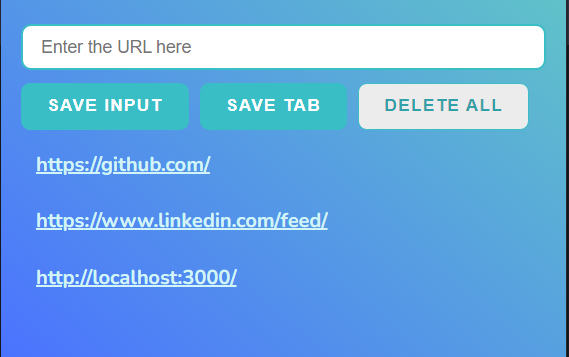
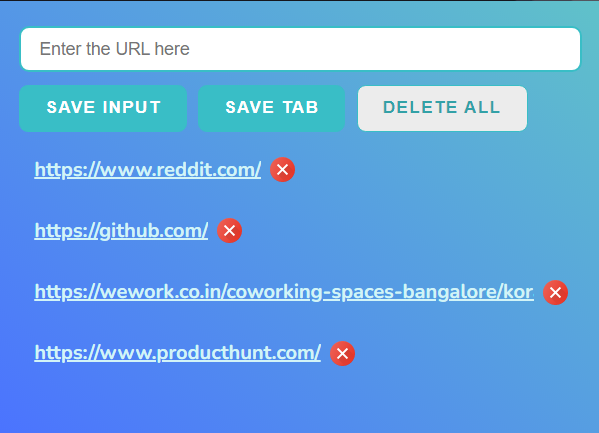
fixed single item delete functionality and UI

Changed region(s): [[0.0299, 0.0, 1.0, 1.0], [0.0598, 0.7395, 0.5975, 0.8627], [0.0, 0.0, 0.0299, 0.0308]]

diff --git a/src/index.js b/src/index.js
@@ -24,19 +24,21 @@ function render(leads) {
   let listItems = "";
   for (let i = 0; i < leads.length; i++) {
     listItems += `
+
             <li>
                 <a target='_blank' href='${leads[i]}'>
                     ${leads[i]}
                 </a>
-                <button class='delete-one-btn' id='delete-one-btn'>Delete</button>
+                <img class="ind-del" height="20px" src="../assets/delete.svg">
             </li>
-            
+    
             <br>
 
         `;
   }
+
   ulEl.innerHTML = listItems;
-  deleteBtns=document.getElementsByClassName("delete-one-btn");
+  let deleteBtns = document.getElementsByClassName("ind-del");
   for (let i = 0; i < deleteBtns.length; i++) {
     deleteBtns[i].addEventListener("click", function () {
       myLeads.splice(i, 1);
@@ -44,7 +46,6 @@ function render(leads) {
       render(myLeads);
     });
   }
-
 }
 
 deleteBtn.addEventListener("dblclick", function () {

diff --git a/src/index.css b/src/index.css
@@ -10,7 +10,6 @@ body {
 }
 
 input {
-  font-style: "Nunito", sans-serif !important;
   width: 100%;
   padding: 8px 14px;
   box-sizing: border-box;
@@ -19,6 +18,7 @@ input {
   border-radius: 8px;
   font-size: 14px;
   font-weight: 500;
+  font-style: "Nunito", sans-serif;
 }
 
 .button-container {
@@ -61,6 +61,8 @@ a {
   font-size: 16px;
   position: relative;
   left: 12px;
+  overflow: hidden;
+  white-space: nowrap;
 }
 
 p {
@@ -77,9 +79,15 @@ li {
   align-items: center;
   white-space: nowrap;
   overflow: hidden;
-  text-overflow: "----";
 }
 
 img {
   cursor: pointer;
+}
+
+.ind-del {
+  background: none;
+  border: none;
+  position: relative;
+  right: 11px;
 }

diff --git a/README.md b/README.md
@@ -8,7 +8,7 @@
 
 2. Have a lot of folders and bookmarks in your bookmark bar and still come across a link that you have no idea where to put? Forget the internal deliberation to decide where to put it. Save it here and keep the organising for another time.
 
-![enter image description here](https://i.postimg.cc/rspX8cDg/Capture.png)
+![enter image description here](https://i.postimg.cc/GhFJYk83/Capture.png)
 
 ## Installation and Setup
 
